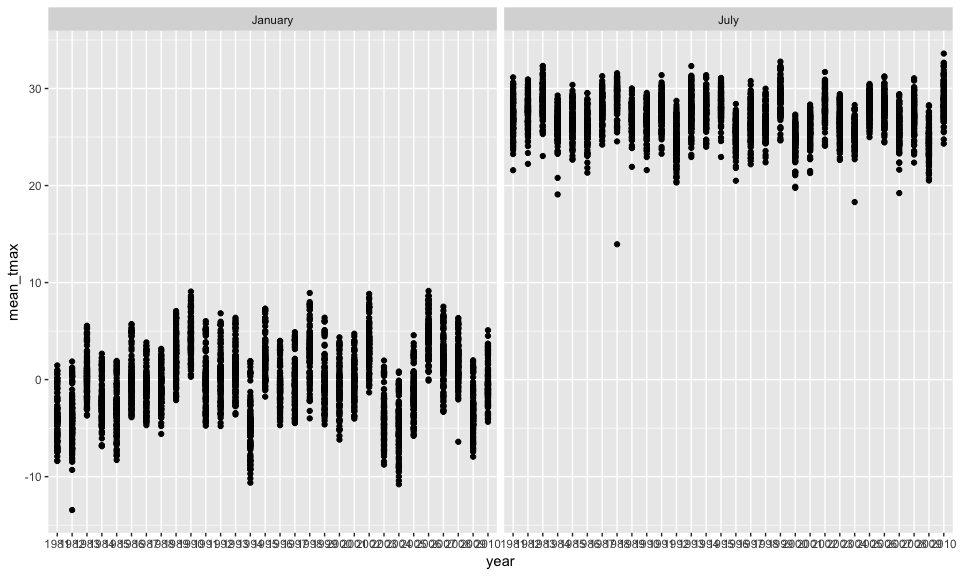
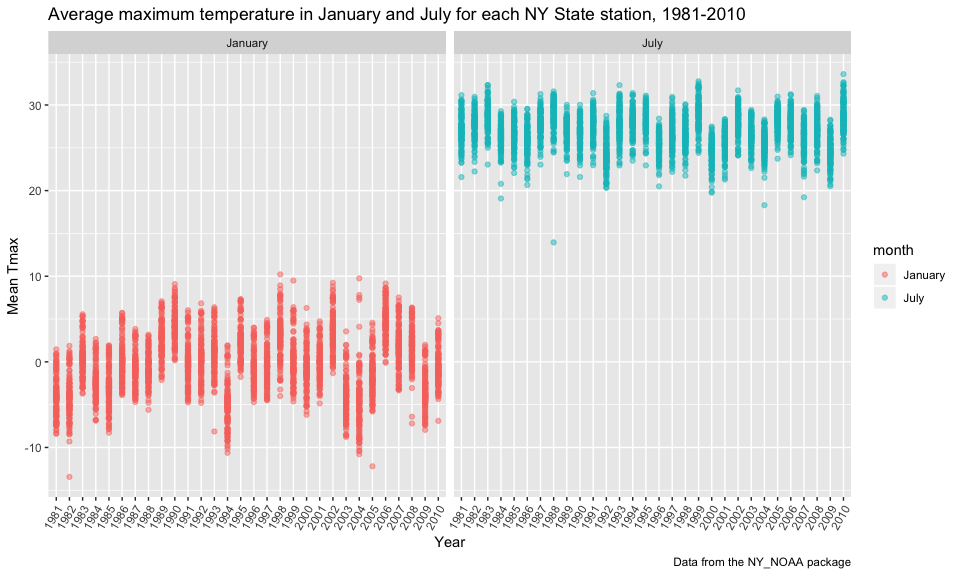
work on problem 3 - work on two panel plot for last bullet

diff --git a/p8105_hw3_dm3175.md b/p8105_hw3_dm3175.md
@@ -1,7 +1,7 @@
 p8105\_hw3\_dm3175
 ================
 Devon Morgan
-10/9/2018
+10/15/2018
 
 Problem 1
 =========
@@ -123,10 +123,12 @@ brfss_data %>%
 Problem 2
 =========
 
-The Instacart Online Grocery Shopping Dataset (Instacart) from 2017 contains data from an online grocery service that permits shopping from local stores online, delivering groceries quickly. The dataset includes online order data from more than 200,000 users.
+The Instacart Online Grocery Shopping Dataset (Instacart) from 2017 contains data from an online grocery service that permits shopping from local stores online, delivering groceries quickly. The dataset includes online order data from more than 200,000 users. This dataset is located in the `p8105.datasets` package.
 
 Load dataset
 ------------
+
+Loaded the instacart dataset from `p9105.datasets` package:
 
 ``` r
 instacart_data = p8105.datasets::instacart %>% 
@@ -243,8 +245,12 @@ instacart_data %>%
 Problem 3
 =========
 
+Problem 3 uses data from the NOAA National Climatic Data Center describing weather patterns at different stations in New York State. This dataset is located in the `p8105.datasets` package.
+
 Load dataset
 ------------
+
+Loaded the NY\_NOAA dataset from `p9105.datasets` package:
 
 ``` r
 NOAA_data = p8105.datasets::ny_noaa %>% 
@@ -266,7 +272,7 @@ The dataset contains the following key variables:
 -   `tmax`: Maximum temperature (tenths of degrees C)
 -   `tmin`: Minimum temperature (tenths of degrees C)
 
-Each of the weather stations collect a different combination of variables listed above. This means that there are a significant amount of missing values throughout the dataset. The missing value counts for each variable are as follows:
+Each of the weather stations collect a different combination of variables listed above. This means that there are a **significant amount of missing values** throughout the dataset. The missing value counts for each variable are as follows:
 
 -   Precipitation level (`prcp`) has 145838 missing values. This represents 0.0561958 portion missing values for this variable out of the full dataset.
 -   Snowfall level (`snow`) has 381221 missing values. This represents 0.146896 portion missing values for this variable out of the full dataset.
@@ -274,7 +280,7 @@ Each of the weather stations collect a different combination of variables listed
 -   Maximum temperature (`tmax`) has 1134358 missing values. This represents 0.4371025 portion missing values for this variable out of the full dataset.
 -   Minimum temperature (`tmin`) has 1134420 missing values. This represents 0.4371264 portion missing values for this variable out of the full dataset.
 
-The large number of missing values for `tmax` and `tmin` relative to the full size of the dataset make it difficult to track changes in temperature over time, and to get a clear sense of what the typical minimum and maximum temperature levels are at different stations. This similarly applies to the missing values for precipitation level, snowfall level and snow depth which make comparisons across stations and throughout time difficult.
+The large number of missing values for `tmax` and `tmin` relative to the full size of the dataset (displayed above) make it difficult to track changes in temperature over time, and to get a clear sense of what the typical minimum and maximum temperature levels are at different stations. This similarly applies to the missing values for precipitation level, snowfall level and snow depth which make comparisons across stations and throughout time difficult.
 
 Questions
 ---------
@@ -320,20 +326,55 @@ clean_NOAA_data %>%
 
 -   **Make a two-panel plot showing the average max temperature in January and in July in each station across years. Is there any observable / interpretable structure? Any outliers?**
 
+The following plot shows the average max temperature in January and July in each station from 1981 to 2010. The average max temperature was taken over all daily Tmax measurements for the months of July and January per station.
+
 ``` r
 clean_NOAA_data %>%
   filter(month == "January" | month == "July") %>%
   group_by(id, year, month) %>% 
-  summarize(mean_tmax = mean(tmax_celsius)) %>%
-  ggplot(aes(x = year, y = mean_tmax)) +
-  geom_point() +
-  facet_grid(. ~ month)
+  summarize(mean_tmax = mean(tmax_celsius, na.rm = TRUE)) %>%
+  ggplot(aes(x = year, y = mean_tmax, color = month)) +
+  geom_point(alpha = .5) +
+  facet_grid(. ~ month) +
+  theme(axis.text.x = element_text(angle=60, hjust=1)) +
+  labs(
+    title = "Average maximum temperature in January and July for each NY State station, 1981-2010",
+    x = "Year",
+    y = "Mean Tmax",
+    caption = "Data from the NY_NOAA package"
+  )
 ```
 
-    ## Warning: Removed 7058 rows containing missing values (geom_point).
+    ## Warning: Removed 5970 rows containing missing values (geom_point).
 
 <img src="p8105_hw3_dm3175_files/figure-markdown_github/max temp in Jan and July-1.png" width="90%" />
 
+As expected, the plots illustrate that the average maximum temperature is consistently lower in Janurary than July. The average temperatures have fluctuated yearly from 1981-2010, although not always significantly. The following summary tables
+
 -   **Make a two-panel plot showing (i) tmax vs tmin for the full dataset (note that a scatterplot may not be the best option); and (ii) make a plot showing the distribution of snowfall values greater than 0 and less than 100 separately by year.**
 
-density plot
+density plot FINISH
+
+``` r
+temp_hex_p = clean_NOAA_data %>%
+  ggplot(aes(x = tmax_celsius, y = tmin_celsius)) + 
+  geom_hex()
+
+
+
+temp_density_p = clean_NOAA_data %>%
+  gather(key = observation, value = temp, tmax_celsius:tmin_celsius) %>%
+  ggplot(aes(x = temp, fill = observation)) +
+  geom_density(alpha = .5) + 
+  viridis::scale_fill_viridis(discrete = TRUE) +
+  labs(
+    title = "Tmax vs. Tmin for all weather stations, 1981-2010",
+    x = "Temperature (C)",
+    caption = "Data from the NY_NOAA package"
+  )
+
+Snowfall_scatter_p = clean_NOAA_data %>% 
+  filter(snow > 0 & snow < 100) %>%
+  ggplot(aes(x = snow, y = year)) +
+  geom_density_ridges(scale = .85)
+```
